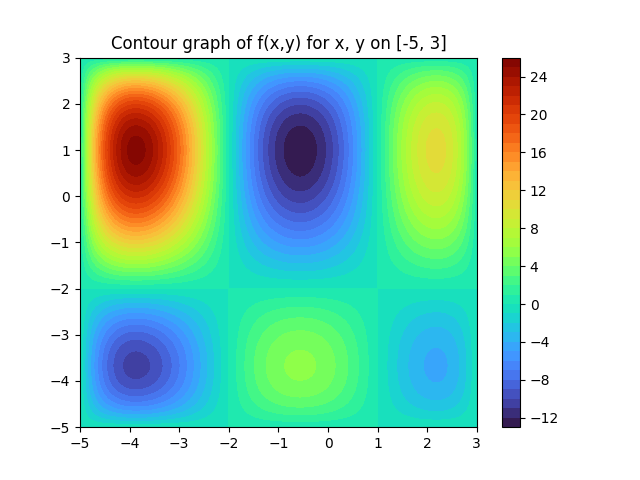
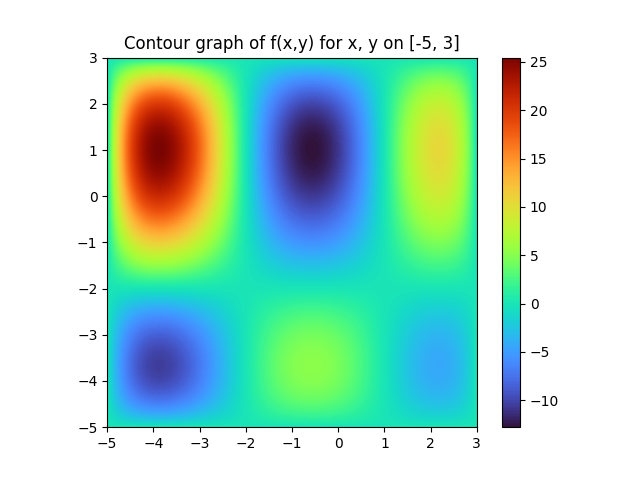
HGAPSO version 1, more testing/cleanup needed

diff --git a/hgapso.py b/hgapso.py
@@ -1,0 +1,242 @@
+import numpy as np
+from numpy.typing import NDArray
+from typing import Callable, List, Tuple
+import matplotlib.pyplot as plt
+import time
+
+
+def selection(k: int, scores: NDArray[float]) -> int:
+    """
+    Selects the chromosome yielding the largest score from a random set of k chromosomes.
+    :param k: The length of the subset of scores to select from
+    :param scores: The list of population scores
+    :return: The index corresponding to the largest selected scores
+    """
+    # Select k random scores (by index)
+    selected = np.random.randint(0, len(scores), k)
+    return selected[np.argmax([scores[x] for x in selected])]
+
+
+def crossover(c1: NDArray[int], c2: NDArray[int]) -> Tuple[NDArray[int], NDArray[int]]:
+    """
+    Performs a crossover on two given chromosomes.
+    :param c1: The first chromosome
+    :param c2: The second chromosome
+    :return: A tuple containing the two crossed-over chromosomes
+    """
+    # Null check
+    if c2 is None:
+        return c1, c2
+
+    cross_pt = np.random.randint(1, len(c1)-1)
+
+    crossed1 = np.concatenate((c1[:cross_pt], c2[cross_pt:]))
+    crossed2 = np.concatenate((c2[:cross_pt], c1[cross_pt:]))
+
+    return crossed1, crossed2
+
+
+def mutate(c: NDArray[int]) -> NDArray[int]:
+    """
+    Mutates a random bit on the given chromosome.
+    :param c: The chromosome to mutate
+    """
+    if c is None:
+        return
+
+    # for x in range(2):
+    #     idx = np.random.randint(x*len(c)/2, (x+1)*len(c)/2)
+    #     c[idx] = 1 - c[idx]
+
+    idx = np.random.randint(len(c))
+    c[idx] = 1 - c[idx]
+
+
+def f_coord(x: float, y: float) -> float:
+    return (x-3.14)**2 + (y-2.72)**2 + np.sin(3*x+1.41) + np.sin(4*y-1.73)
+
+
+def f(p: Tuple[float, float]) -> float:
+    return f_coord(p[0], p[1])
+
+
+def decode(bitstring: List[int]) -> Tuple[float, float]:
+    bounds = [[0.0, 5.0], [0.0, 5.0]]
+    coords = []
+    max_16 = 2**16 - 1
+    for i in range(2):
+        var_string = ''.join([str(x) for x in bitstring[i * 16: (i + 1) * 16]])
+        # This will take the var string, an arbitrary 16-bit binary string, parse it as a 16-bit integer and scale it down into our bounds.
+        var = bounds[i][0] + ((float(int(var_string, 2)) / max_16) * (bounds[i][1] - bounds[i][0]))
+        coords.append(var)
+
+    return coords[0], coords[1]
+
+
+def encode(p: NDArray) -> NDArray[int]:
+    x_bits = format(int((p[0] / 5.0) * (2**16 - 1)), '016b')
+    y_bits = format(int((p[1] / 5.0) * (2**16 - 1)), '016b')
+    bits = x_bits + y_bits
+    bits = [int(bit) for bit in bits]
+
+    return np.asarray(bits)
+
+
+# t = (1.25135, 1.25135)
+# t_b = np.random.randint(2, size=32)
+# # print(f't: {t}')
+# print('t_b:' + str(t_b))
+#
+# t_enc = encode(t)
+# t_b_dec = decode(t_b)
+#
+# # print('t_enc: ' + str(t_enc))
+# print('t_b_dec: ' + str(t_b_dec))
+#
+# t_redec = decode(t_enc)
+# t_b_reenc = encode(t_b_dec)
+#
+# # print(f't_redec: ({t_redec})')
+# print('t_b_reenc: ' + str(t_b_reenc))
+# print('t_b_redec: ' + str(decode(t_b_reenc)))
+# print(all(t_b_reenc == t_b))
+# print(str(t_b))
+# print(str(t_b_reenc))
+
+class HGAPSO:
+    def __init__(self):
+        # hyperparameters
+        self.pop_size = 40
+        self.k = 3
+        self.p_c = 0.7
+        self.p_m = 0.1
+        self.c1 = 0.1
+        self.c2 = 0.1
+        self.w = 0.8
+
+        # initialize population
+        self.particles = np.random.randint(2, size=(self.pop_size, 32))  # in bitstrings
+        self.vels = np.random.randn(self.pop_size, 2) * 0.1  # in numbers
+        self.scores = np.asarray([f(decode(particle)) for particle in self.particles])
+
+        self.pbest = self.particles.copy()
+        self.pbest_scores = np.asarray([f(decode(pbesti)) for pbesti in self.pbest])
+
+        self.gbest = self.pbest[np.argmin(self.pbest_scores)]
+        self.gbest_score = f(decode(self.gbest))
+
+        self.gen = 0
+
+    def iterate(self):
+        # Select the best-performing half of the particles
+        elite_ind = np.argpartition(self.scores, int(self.pop_size/2))[:int(self.pop_size/2)]
+        elites = self.particles[elite_ind]
+        elite_vels = self.vels[elite_ind]
+        elite_pbest = self.pbest[elite_ind]
+        elite_pbest_dec = np.asarray([decode(pbest) for pbest in elite_pbest])
+
+        # Decode the elite particles in order to enhance them
+        elites = np.asarray([decode(elite) for elite in elites])
+
+        # Update vels via the formula:self.
+        # Vi(t+1) = w*Vi(t) + c1r1*(pbesti - Xi(t)) + c2r2(gbest - Xi(t))
+        # Where r1 and r2 are random numbers on [0,1), and Xi is the position of the ith elite particle
+        r = np.random.rand(2)
+        elite_vels = self.w * elite_vels + self.c1 * r[0] * (elite_pbest_dec - elites) + self.c2 * r[1] * (decode(self.gbest) - elites)
+        # Enhance elites with new velocities
+        elites += elite_vels
+        np.clip(elites, 0.0, 5.0)
+
+        # Calculate scores of the enhanced elites and update elite pbests
+        elite_scores = np.asarray([f(elite) for elite in elites])
+        for j in range(len(elites)):
+            if elite_scores[j] < f(elite_pbest_dec[j]):
+                elite_pbest[j] = encode(elites[j])
+
+        # elite_pbest = np.asarray([encode(elites[i]) if elite_scores[i] > self.pbest_scores[elite_ind[i]] else elite_pbest[i] for i in range(len(elites))])
+
+        # Now do genetic algorithm segment with the elites as the parents
+        # The first pop_size/2 members of the next generation will be the enhanced elites of the previous generation
+        # The second pop_size/2 members of the next generation will be the offspring of the enhanced elites of the previous generation
+        # Offspring of elites should have their velocities set to 0 and their pbests set to their current positions
+        # Select parents via tournament selection
+        parents = elites.copy()[np.asarray([selection(self.k, elite_scores) for _ in range(len(elites))])]
+        offspring = np.empty((int(self.pop_size/2), 32), dtype=np.int8)
+        offspring_vels = np.zeros((int(self.pop_size/2), 2))
+        for i in range(0, len(parents), 2):
+            cross1 = encode(parents[i])
+            cross2 = None if i+1 >= len(parents) else encode(parents[i+1])
+
+            if np.random.rand() < self.p_c:
+                cross1, cross2 = crossover(cross1, cross2)
+
+            if np.random.rand() < self.p_m:
+                mutate(cross1)
+
+            if np.random.rand() < self.p_m:
+                mutate(cross2)
+
+            offspring[i] = cross1
+            if cross2 is not None:
+                offspring[i+1] = cross2
+
+        # Calculate scores of offspring
+        offspring_scores = np.asarray([f(decode(child)) for child in offspring])
+        offspring_pbest = offspring.copy()
+
+        # Re-encode the elites
+        elites = np.asarray([encode(elite) for elite in elites])
+
+        # Now we have our elites and our offspring, so join them and overwrite the previous generation with the new generation
+        self.particles = np.concatenate((elites, offspring))
+        self.vels = np.concatenate((elite_vels, offspring_vels))
+
+        # Update pbests and gbest
+        self.pbest = np.concatenate((elite_pbest, offspring_pbest))
+        self.pbest_scores = np.asarray([f(decode(pbesti)) for pbesti in self.pbest])
+
+        potential_gbest = self.pbest[np.argmin(self.pbest_scores)]
+        self.gbest = potential_gbest if f(decode(potential_gbest)) < self.gbest_score else self.gbest
+        self.gbest_score = f(decode(self.gbest))
+
+        self.gen += 1
+
+
+# visualization setup
+fig, ax = plt.subplots()
+fig.set_tight_layout(True)
+graph_x, graph_y = np.array(np.meshgrid(np.linspace(0, 5, 1000), np.linspace(0, 5, 1000)))
+graph_z = f_coord(graph_x, graph_y)
+img = ax.imshow(graph_z, extent=[0, 5, 0, 5], origin='lower', cmap='bwr')
+fig.colorbar(img, ax=ax)
+contours = ax.contour(graph_x, graph_y, graph_z, 10, colors='black', alpha=0.3)
+ax.clabel(contours, inline=True, fontsize=8, fmt='%.0f')
+
+alg = HGAPSO()
+
+plt.ion()
+
+plt.show()
+
+for i in range(100):
+    ax.set_title(f'Generation {i}')
+
+    particles_dec = np.asarray([decode(particle) for particle in alg.particles])
+    vels = alg.vels
+    gbest = decode(alg.gbest)
+    particles_plot = ax.scatter(particles_dec[:, 0], particles_dec[:, 1], marker='o', color='black')
+    vels_plot = ax.quiver(particles_dec[:, 0], particles_dec[:, 1], vels[:, 0], vels[:, 1], color='green', width=0.005, angles='xy', scale_units='xy', scale=1)
+    gbest_plot = plt.scatter(gbest[0], gbest[1], marker='*', s=100, color='purple', alpha=0.5)
+
+    fig.canvas.draw()
+    fig.canvas.flush_events()
+
+    # time.sleep(0.2)
+
+    particles_plot.remove()
+    vels_plot.remove()
+    gbest_plot.remove()
+
+    alg.iterate()
+
+print(f'HGAPSO found best solution at ({gbest[0]}, {gbest[1]})')

diff --git a/main.py b/main.py
@@ -49,8 +49,9 @@ X, Y = np.meshgrid(xlist, ylist)
 # Z = 0.01 * (X - 1) * (X + 2) * (X + 5) * (X - 3) * (Y - 3) * (Y + 2) * (Y + 5)
 Z = fit_x_y(X, Y)
 fig, ax = plt.subplots()
-cp = ax.contourf(X, Y, Z, levels=40, cmap=mpl.colormaps.get('turbo'))
-fig.colorbar(cp)
+plt.imshow(Z, extent=[-5, 3, -5, 3], origin='lower', cmap=mpl.colormaps.get('turbo'), alpha=1)
+# cp = ax.contour(X, Y, Z, levels=10, colors='black')
+plt.colorbar()
 ax.set_title('Contour graph of f(x,y) for x, y on [-5, 3]')
 plt.ion()
 plt.savefig('contour_graph.png')
@@ -73,7 +74,7 @@ ax.set_title('Generation 0')
 fig.canvas.draw()
 fig.canvas.flush_events()
 # os.system('pause')
-plt.savefig('gen_0.png')
+# plt.savefig('gen_0.png')
 
 ga = GeneticAlgorithm(initial_pop, fit_func, decode_x_y, p_m=0.1)
 print(f'Generation {ga.generation}:\t{ga.best[0]}\t with {ga.best[1]}')
@@ -90,4 +91,4 @@ for x in range(50):
     fig.canvas.flush_events()
     print(f'Generation {ga.generation}:\t{ga.best[0]}\t with {ga.best[1]}')
 
-plt.savefig('gen_50.png')
+# plt.savefig('gen_50.png')

diff --git a/ga.py b/ga.py
@@ -39,7 +39,7 @@ def mutate(c: List[int]):
     :param c: The chromosome to mutate
     """
     if not c:
-        return c
+        return
 
     # for x in range(2):
     #     idx = np.random.randint(x*len(c)/2, (x+1)*len(c)/2)
